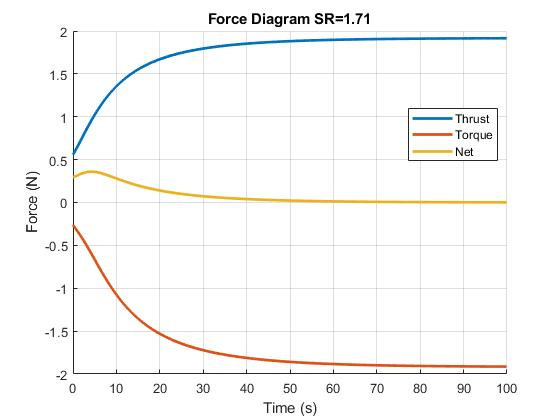
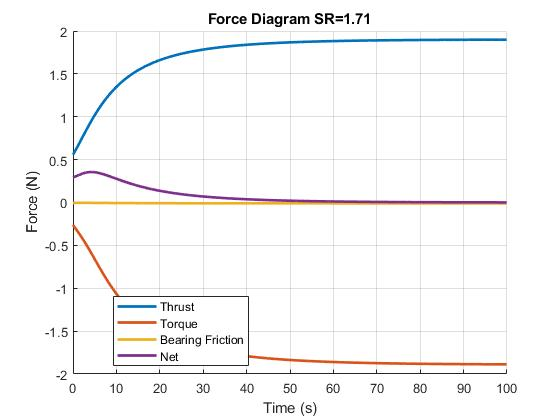
Revert "Removed Bearing Friction"
This reverts commit ae924dcc1006b3bb80a95b944e7da596bda7233a.

diff --git a/SpeedRelations.m b/SpeedRelations.m
@@ -1,7 +1,7 @@
 function v_range = SpeedRelations(vehicle)
 	[v_min, v_max] = vehicle.SpeedBoundary();
 	v_range = v_min:(v_max-v_min)/1e3:v_max;
-	[a_range, ~, T_range, Q_range, F_range] = vehicle.Acceleration(v_range);
+	[a_range, ~, T_range, Q_range, B_range, F_range] = vehicle.Acceleration(v_range);
 	[~, k_top] = min(abs(a_range));
 	v_bounds = [v_min, v_range(k_top)];
 	figure();
@@ -17,10 +17,11 @@ function v_range = SpeedRelations(vehicle)
 	grid('on');
 	plot(v_range, T_range, 'LineWidth', 2);
 	plot(v_range, Q_range, 'LineWidth', 2);
+	plot(v_range, B_range, 'LineWidth', 2);
 	plot(v_range, F_range, 'LineWidth', 2);
 	xlabel('Velocity (m/s)');
 	xlim(v_bounds);
 	ylabel('Force (N)');
 	title(sprintf('Force vs Speed SR=%.2f', vehicle.SR));
-	legend('Thrust', 'Torque', 'Net', 'Location', 'Best');
+	legend('Thrust', 'Torque', 'Bearing Friction', 'Net', 'Location', 'Best');
 end

diff --git a/Vehicle.m b/Vehicle.m
@@ -7,6 +7,7 @@ classdef Vehicle
 		Mw
 		Iw
 		m
+		b
 		SR
 		i
 		s
@@ -24,16 +25,23 @@ classdef Vehicle
 			self.Iw = self.Mw*self.Dw^2/8;
 			self.m = m + fan.m + self.Mw;
 			self.L = L;
+			shaftRadius = 6.35e-3/2;
+			bearingClearence = 1e-3;
+			bearingLength = 10e-3;
+			bearingLoad = m + fan.m;
+			oilViscosity = 0.35;
+			self.b = 4*pi*oilViscosity*shaftRadius^3*bearingLength/bearingClearence/self.Dw;
 			self.SR = SR;
 			self.i = self.m+(12*self.Iw+4*self.fan.I/self.SR^2)/self.Dw^2;
 			self.s = 2/(self.SR*self.Dw);
 		end
-		function [a, Vt, T, Q, F] = Acceleration(self, V)
+		function [a, Vt, T, Q, B, F] = Acceleration(self, V)
 			Vt = self.air.TrueSpeed(V);
 			w = self.s*V;
 			[T, Q] = self.fan.Find(self.air, Vt, w);
 			Q = -self.s*Q;
-			F = T+Q;
+			B = -self.b*w;
+			F = T+Q+B;
 			a = F/self.i;
 		end
 		function [v_min, v_max] = SpeedBoundary(self)

diff --git a/Simulate.m b/Simulate.m
@@ -1,7 +1,7 @@
 function v_range = Simulate(vehicle, Tf)
 	[v_min, ~] = vehicle.SpeedBoundary();
 	[time, v_range] = RungeKuttaMethod(@(~, V) vehicle.Acceleration(V), 1e3, Tf, v_min);
-	[a_range, ~, T_range, Q_range, F_range] = vehicle.Acceleration(v_range);
+	[a_range, ~, T_range, Q_range, B_range, F_range] = vehicle.Acceleration(v_range);
 	figure();
 	hold('on');
 	grid('on');
@@ -21,9 +21,10 @@ function v_range = Simulate(vehicle, Tf)
 	grid('on');
 	plot(time, T_range, 'LineWidth', 2);
 	plot(time, Q_range, 'LineWidth', 2);
+	plot(time, B_range, 'LineWidth', 2);
 	plot(time, F_range, 'LineWidth', 2);
 	xlabel('Time (s)');
 	ylabel('Force (N)');
 	title(sprintf('Force Diagram SR=%.2f', vehicle.SR));
-	legend('Thrust', 'Torque', 'Net', 'Location', 'Best');
+	legend('Thrust', 'Torque', 'Bearing Friction', 'Net', 'Location', 'Best');
 end
